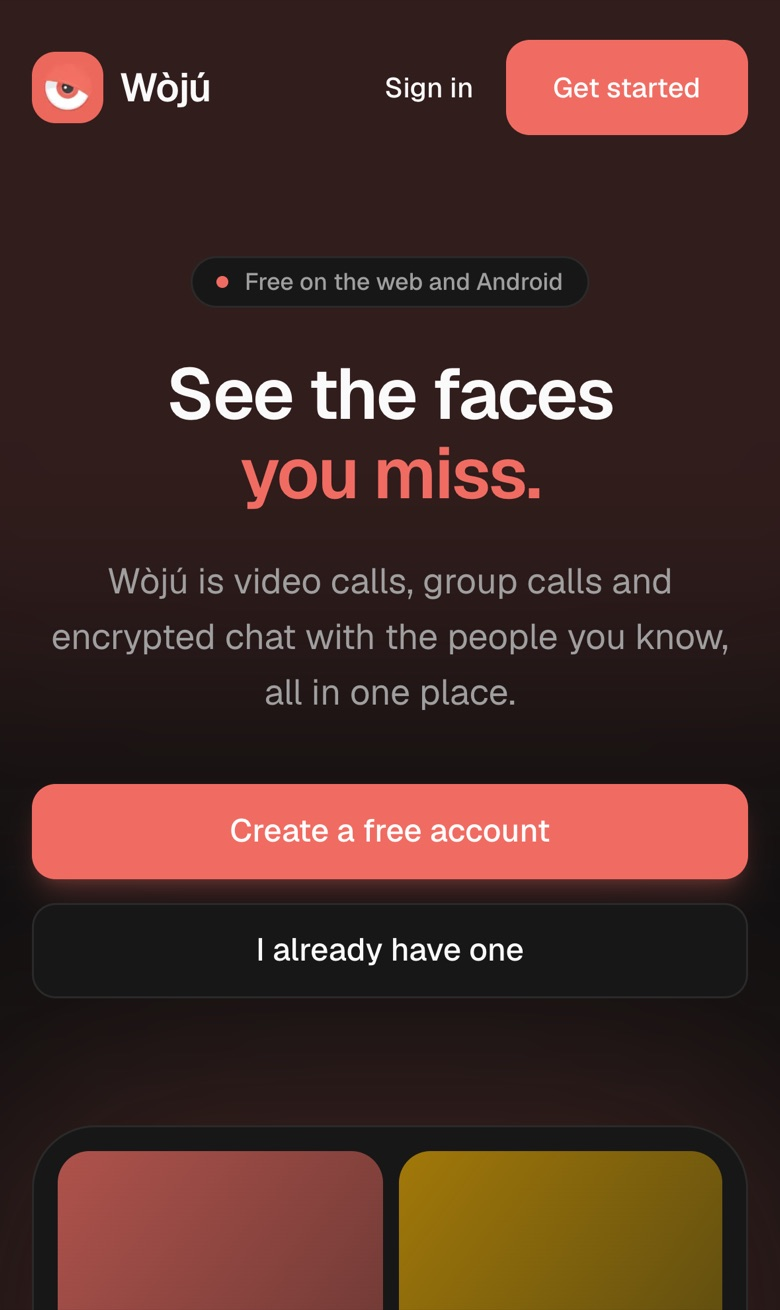
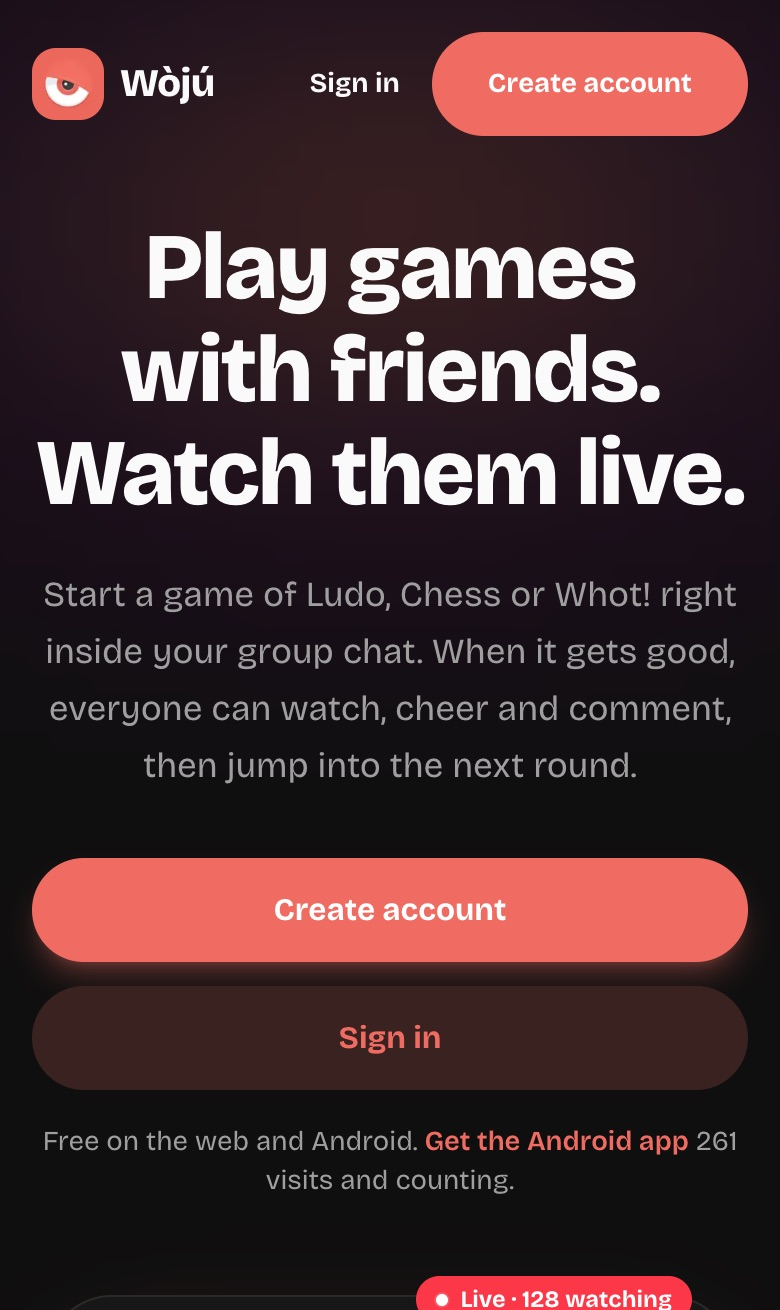
Wòjú is about games now: new copy, numbers, timeline and screenshots
Claude-Session: https://claude.ai/code/session_01MUPvkzHLKrHrG8TWutZjNo

diff --git a/src/data/woju.ts b/src/data/woju.ts
@@ -2,21 +2,21 @@
 export const woju = {
   url: 'https://usewoju.com',
   tagline:
-    'Video calls, group calls and encrypted chat with the people you know.',
+    'Games with friends, played in your chats and watched live.',
   facts: [
     { value: '2 days', label: 'to a working v1' },
-    { value: '96', label: 'releases in 13 days' },
+    { value: '143', label: 'releases in 25 days' },
     { value: '3', label: 'platforms: web, iOS, Android' },
     { value: '1', label: 'engineer, with AI agents' },
   ],
   features: [
-    'HD video and group calls with live filters and picture-in-picture',
-    'End-to-end encrypted chat, voice notes, replies and reactions',
-    'View once: any message, seen one time, then deleted everywhere',
-    'Vibez, the status feed, with likes and comments',
-    'Sparks: earn them as you chat, call and post',
-    'Shuffle, to meet someone new',
-    'An admin dashboard with milestones and an audit log',
+    'Ludo, Chess, Whot!, Ayo, Draughts, Sea Battle, Mafia, trivia and more, started right inside a chat',
+    'Live Games: watch friends play move by move, comment, then tap Play this to play the same game',
+    'Play vs Wòjú, a built-in opponent at easy, medium or hard',
+    'Daily Word and Daily Trivia, with streaks and a daily leaderboard',
+    'Hand your seat to a friend mid-game, and share wins as a link or an image',
+    'Encrypted chat, voice and video calls, and Vibez to talk while you play',
+    'Sparks, invites and referrals, plus an admin console with an audit log',
   ],
   stack: [
     'Go',
@@ -96,5 +96,33 @@ export const wojuDays = [
     versions: '1.44 to 1.45',
     title: 'Simpler, and private',
     text: 'View once for any message, and points became Sparks while streaks went away.',
+  },
+  {
+    day: 18,
+    date: 'Oct 22',
+    versions: '1.54',
+    title: 'Wòjú Games',
+    text: 'Games you start inside a chat, with the server keeping every move fair.',
+  },
+  {
+    day: 21,
+    date: 'Oct 25',
+    versions: '1.59 to 1.60',
+    title: 'Games up front',
+    text: 'Games move to the front of the app, with voice while you play.',
+  },
+  {
+    day: 24,
+    date: 'Oct 28',
+    versions: '2.0 to 2.2',
+    title: 'Live Games',
+    text: 'Watch friends play live, play vs Wòjú, four new games, Daily Word and Trivia.',
+  },
+  {
+    day: 25,
+    date: 'Oct 29',
+    versions: '2.3',
+    title: 'Polish',
+    text: 'Add friends from their profile, go live again, and Whot! by the rules.',
   },
 ];

diff --git a/src/sections/woju.tsx b/src/sections/woju.tsx
@@ -87,7 +87,7 @@ export default function Woju() {
           .to({}, { duration: 0.25 });
       });
 
-      // The 13 days, as a film strip driven by vertical scroll.
+      // The build, as a film strip driven by vertical scroll.
       mm.add(
         '(min-width: 900px) and (prefers-reduced-motion: no-preference)',
         () => {
@@ -144,8 +144,8 @@ export default function Woju() {
             />
             <h2 className={s.name}>Wòjú</h2>
             <p className={s.tagline}>
-              Chat, calls and vibez. Built by one engineer, first version in two
-              days.
+              Games with friends, played in your chats and watched live. Built
+              by one engineer, first version in two days.
             </p>
           </div>
           <div data-devices className={s.devices}>
@@ -187,8 +187,9 @@ export default function Woju() {
           <div>
             <h3 className={s.h3}>How it was built</h3>
             <p className={s.how}>
-              A Go and PostgreSQL backend, a Next.js web app and a React Native
-              app for iOS and Android, all from one repo. I wrote each feature
+              A Go and PostgreSQL backend, a Next.js web app, a React Native app
+              for iOS and Android, and the games themselves, each a small web
+              app the server referees, all from one repo. I wrote each feature
               as a spec, AI agents wrote the code, and every diff was reviewed
               by me before it shipped.
             </p>
@@ -207,7 +208,7 @@ export default function Woju() {
       <div data-strip className={s.strip}>
         <div className={s.stripSticky}>
           <div className={`wrap ${s.stripHead}`}>
-            <h3 className="h2">Thirteen days, 96 releases.</h3>
+            <h3 className="h2">25 days, 143 releases.</h3>
             <p className="lead">
               Every release shipped with a changelog entry. Here is how the
               product grew.

diff --git a/src/app/layout.tsx b/src/app/layout.tsx
@@ -10,7 +10,7 @@ const geist = Geist({
 
 const SITE = 'https://akindejuh.netlify.app';
 const DESCRIPTION =
-  'Michael Akindeju (Akindeju Oluwagbemiga) is a Senior Software Engineer (Full Stack) at Benmore Technologies who builds mobile, web and backend products end to end. 5+ years, 15+ apps shipped to 3M+ users, 2,800+ GitHub contributions, and Wòjú, a video calling and chat app built in two days with AI agents.';
+  'Michael Akindeju (Akindeju Oluwagbemiga) is a Senior Software Engineer (Full Stack) at Benmore Technologies who builds mobile, web and backend products end to end. 5+ years, 15+ apps shipped to 3M+ users, 2,800+ GitHub contributions, and Wòjú, a live games app for playing with friends, first built in two days with AI agents.';
 
 export const metadata: Metadata = {
   metadataBase: new URL(SITE),
